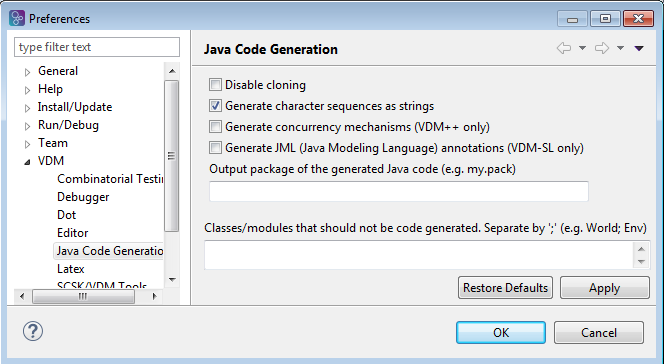
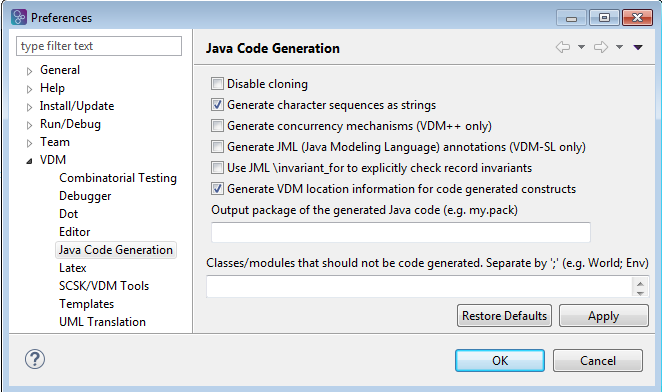
Update Java code generator chapter to describe the invariant_for feature

Changed region(s): [[0.0, 0.0, 1.0, 1.0]]

diff --git a/documentation/UserGuideOvertureIDE/sections/codegen.tex b/documentation/UserGuideOvertureIDE/sections/codegen.tex
@@ -76,7 +76,7 @@ appear in the preference page.
 
 \begin{figure}[htbp]
 \begin{center}
-\includegraphics[width=13cm]{screenDumps/javacg_config}
+\includegraphics[width=15cm]{screenDumps/javacg_config}
 \caption{Configuration of the Java code generator.\label{fig:javacg_config}}
 \end{center}
 \end{figure}
@@ -132,17 +132,26 @@ support for the concurrency mechanisms of VDM++ in the generated code.
 
 When a VDM model is code generated to Java all the contract-based
 elements of the model, i.e.\ the pre conditions, post conditions and
-invariants, are ignored by default. This feature does, however,
-provide limited support for translation of the contract-based elements
-of a VDM-SL model. When the corresponding option is checked the
-contract-based elements are translated to JML~\cite{Burdy&05}
-annotations which are added on top of the generated Java code as
-source code comments. This allows the system properties, expressed in
-terms of pre conditions, post conditions and invariants, to be checked
-against the generated code.\\
+invariants, are ignored by default. When this option is selected the
+contract-based elements of a VDM-SL model are translated to JML
+annotations~\cite{Burdy&05} that are added to the generated Java
+code. This allows the system properties, expressed in terms of pre
+conditions, post conditions and invariants, to be checked against the
+generated code. The generated JML annotated programs can be checked
+for corrected using a JML tool such as
+OpenJML\footnote{\url{http://www.openjml.org}}.\\
 
-\noindent Please note that this feature is still experimental and only
-has limited support for checking of named type invariants.
+\subsection{Use JML \textbackslash invariant\_for to explicitly check record invariants}
+\label{sec:inv-for}
+
+The JML generator offers two ways to perform the invariant check of a
+record. By default the JML generator does this by invoking a
+\texttt{valid} method generated for each record definition. When this
+option is enabled the JML generator instead uses the JML
+\vdmkw{invariant\_for} construct to perform the record invariant
+checks. Note that the \vdmkw{invariant\_for} construct is currently
+not supported by OpenJML, which is the reason why this option is not
+enabled by default.
 
 \subsection{Choose output package}
 \label{sec:javapackage}
